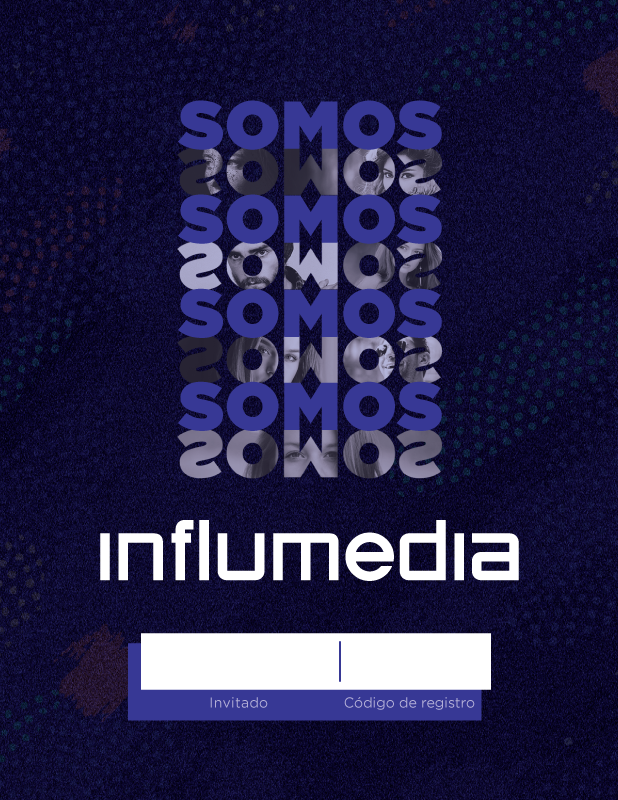
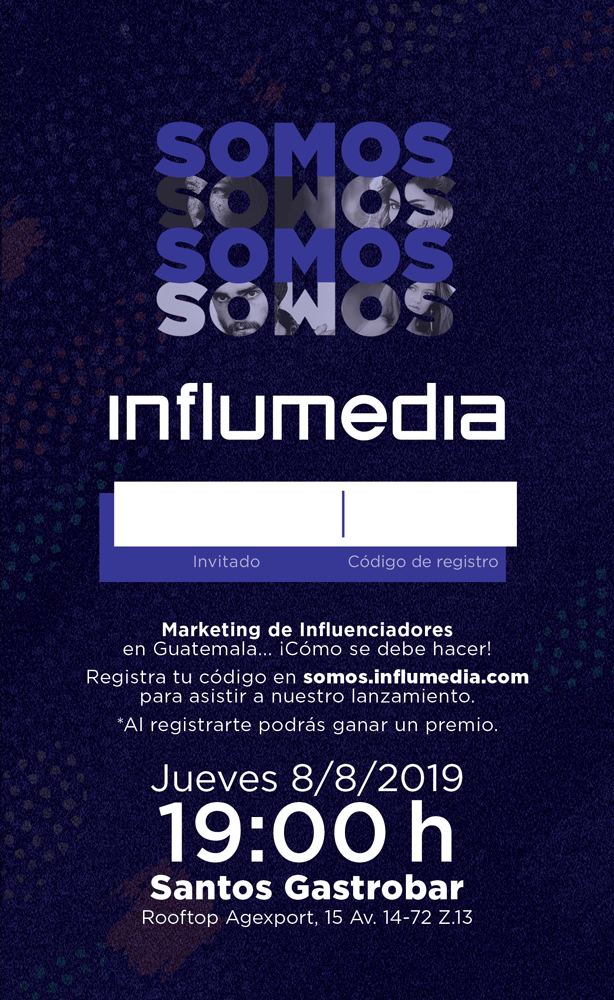
[UPDATED] added new baner

diff --git a/app/Http/Controllers/UsersController.php b/app/Http/Controllers/UsersController.php
@@ -288,7 +288,7 @@ class UsersController extends Controller
                });
                    return  Response::json($request, 200);
            }else if($request->get('type')=='foto'){
-                    $baseimagen = ImageCreateTrueColor(618,800);
+                    $baseimagen = ImageCreateTrueColor(614,1000);
                     //Cargamos la primera imagen(cabecera)
                     if(file_exists("https://somosinflumedia.com/Asset/img/Invitacion-min.png")){
                         $logo = ImageCreateFromPng("https://somosinflumedia.com/Asset/img/Invitacion-min.png");
@@ -298,20 +298,20 @@ class UsersController extends Controller
 
                     }
                     //Unimos la primera imagen con la imagen base
-                    imagecopymerge($baseimagen, $logo, 0, 0, 0, 0, 618, 800, 100);
+                    imagecopymerge($baseimagen, $logo, 0, 0, 0, 0, 614, 1000, 100);
                     //Cargamos la segunda imagen(cuerpo)
                     // $ts_viewer = ImageCreateFromPng("".$request->get('codigo'));
                     $ts_viewer = new TextToImage;
                     $ts_viewer->createImage($request->get('codigo'), 12, 300,70);
                     $ts_viewer->saveAsPng($request->get('codigo').'-cod','');
                     $textts_viewer = ImageCreateFromPng("".$request->get('codigo')."-cod.png");
-                    imagecopymerge($baseimagen, $textts_viewer, 270, 620, 0, 0, 300, 70, 100);
+                    imagecopymerge($baseimagen, $textts_viewer, 270, 320, 0, 0, 300, 70, 100);
                     //Juntamos la segunda imagen con la imagen base
                     $img = new TextToImage;
                     $img->createImage(strtoupper($request->get('nombre')), 10, 300,70);
                     $img->saveAsPng((str_replace(" ", "-", $request->get('nombre'))).'-nombre','');
                     $textImg = ImageCreateFromPng("".(str_replace(" ", "-", $request->get('nombre')))."-nombre.png");
-                    imagecopymerge($baseimagen, $textImg, 90, 620, 0, 0, 300, 70, 100);
+                    imagecopymerge($baseimagen, $textImg, 90, 320, 0, 0, 300, 70, 100);
                     //Mostramos la imagen en el navegador
                     ImagePng($baseimagen,"".$request->get('codigo')."_invitacion.png",5);
                     //Limpiamos la memoria utilizada con las imagenes
